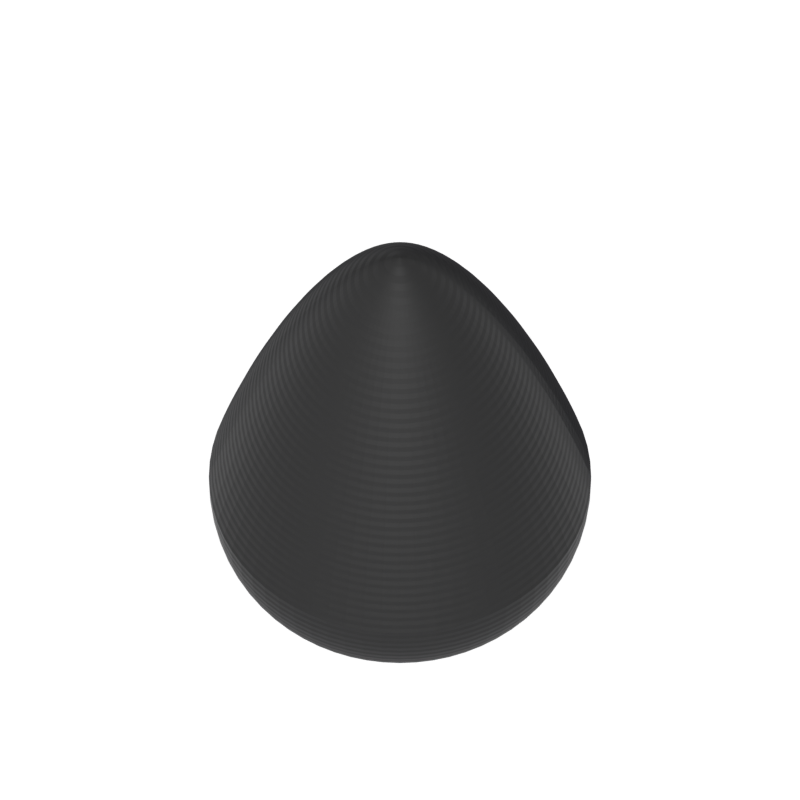
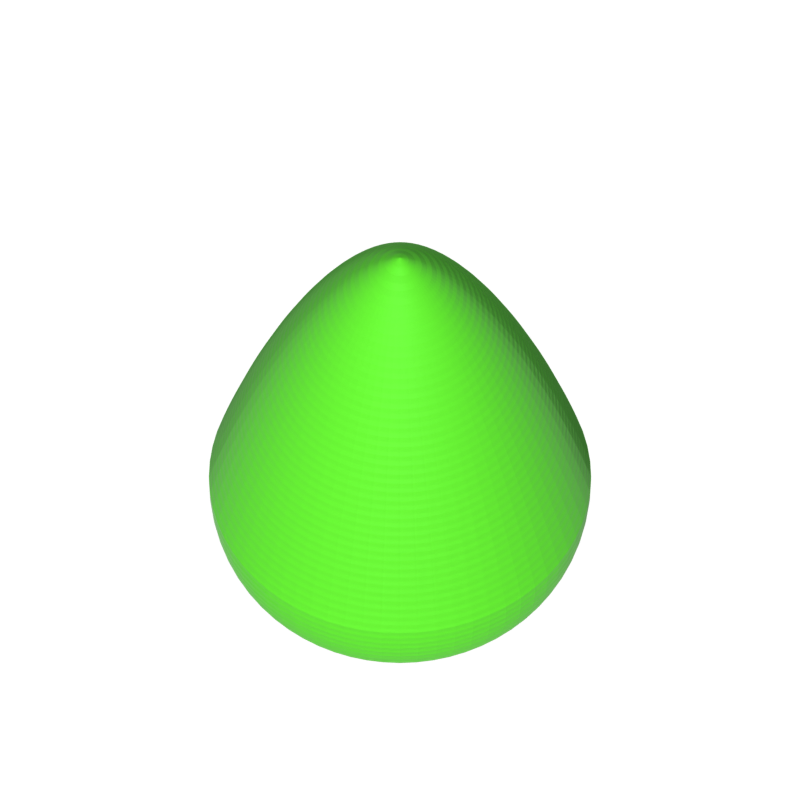
Render cannonballs in neon green
New neon-green PLA preset, matching the bright colour the rulebook tells
players to print them in. Re-rendered the parts image and rebuilt the
rulebook; ?v=2 on the parts page reference.

Changed region(s): [[0.25, 0.2812, 0.75, 0.8438]]

diff --git a/scripts/blender/cc_config.py b/scripts/blender/cc_config.py
@@ -6,7 +6,8 @@
 # Recognized fields:
 #   material: "grey" | "gold" | "black" | "black-hull" | "blue-grey"
 #             | "brown" | "pine" | "rust" | "stone" | "blue" | "green"
-#             | "white" | "gold-hull" | "shadow-petg"   (default "grey")
+#             | "white" | "neon-green" | "gold-hull" | "shadow-petg"
+#             (default "grey")
 #             See cc_materials.make_material for what each one is.
 #   preview_material: str        Material for the ship-preview pass only
 #                                (--material-variant preview). The two passes
@@ -83,7 +84,7 @@ ITEM_OVERRIDES = {
     "industry-smokestack": {"material": "black"},
     "industry-turret":     {"material": "grey"},
     "cannon":            {"material": "black"},
-    "cannonball":        {"material": "black"},
+    "cannonball":        {"material": "neon-green"},
     "cargo":             {"material": "brown"},
     "barrel":            {"material": "brown"},
     "island-topper":     {"material": "green", "shade_smooth": True},

diff --git a/scripts/blender/cc_materials.py b/scripts/blender/cc_materials.py
@@ -203,6 +203,12 @@ def make_green_pla():
     return make_matte_pla("PLA_Green", (0.20, 0.42, 0.18))
 
 
+def make_neon_green_pla():
+    # Bright neon green for cannonballs, the colour the rulebook recommends so
+    # they are easy to find under the couch. Linear RGB; deliberately candy.
+    return make_matte_pla("PLA_NeonGreen", (0.12, 0.85, 0.02))
+
+
 def make_white_pla():
     # Slightly off-white so it doesn't blow out under the overhead lights and
     # keeps a readable shading gradient (paper/sail material).
@@ -454,6 +460,8 @@ def make_material(preset: str, grey: float = 0.75, view: str = "iso"):
         return make_blue_pla()
     if preset == "green":
         return make_green_pla()
+    if preset == "neon-green":
+        return make_neon_green_pla()
     if preset == "white":
         return make_white_pla()
     return make_grey_pla(grey)
